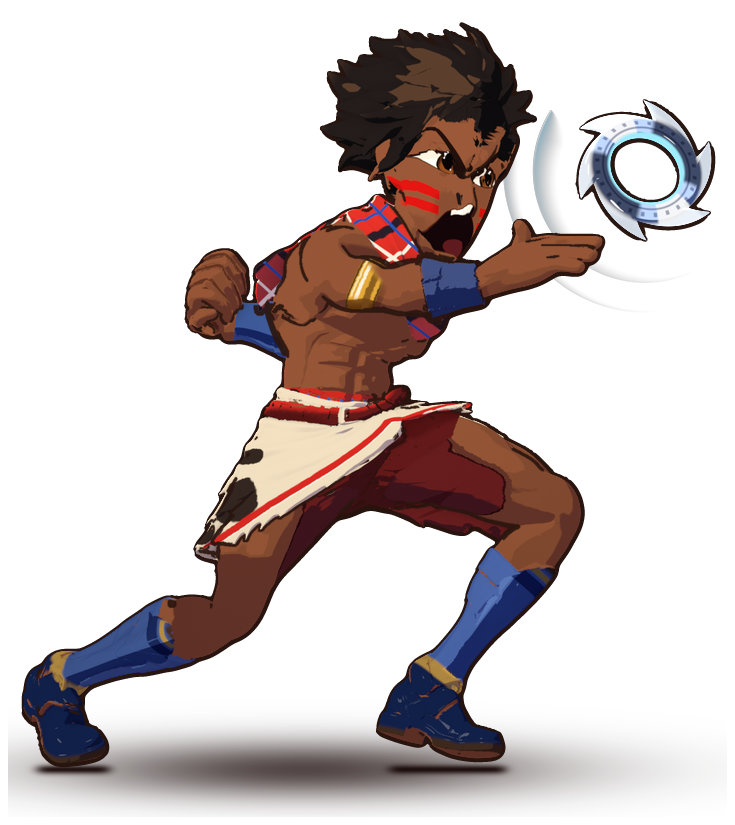
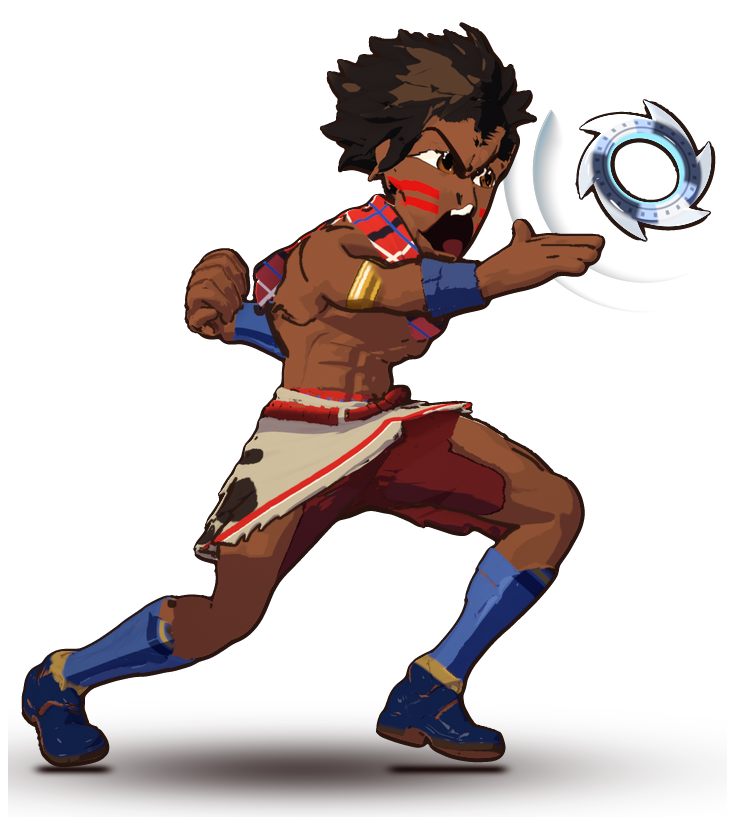
Hero key art k48 (won its A/B against k44 with both blind judges, by toss-ups): the white cowhide apron becomes a warm cream one value step down, with a crisp shadow band under the red belt, so the hips are no longer the brightest shape and the face, eye whites, teeth and chakram lead

Changed region(s): [[0.2993, 0.4545, 0.5986, 0.6667], [0.2694, 0.6061, 0.2993, 0.6364]]

diff --git a/New/tools/art/blender/hero_toon_aaa.py b/New/tools/art/blender/hero_toon_aaa.py
@@ -155,6 +155,13 @@ HAIR_AO_K = 0.3  ## the occlusion kept in the pictures (deep gaps only; was 0.9)
 ## (key art k7, "the lower body melts into the background: one orange-tan value"; "a generic fighter: one signature
 ## colour") the kilt a white Nguni cowhide with bold dark patches (the logo shield's hide) and a beaded hem, a red sash
 ## round his waist, the leather under the kilt dark; the boots: clean blue shin guards over dark glossy leather
+## (key art k48, both judges of k44, judge 1 again of k47: "the white cowhide apron is the highest-value, highest-contrast
+## shape on the figure and pulls the eye to the hips instead of the face: knock the white down to warm cream or ivory, add a
+## shadow under the belt") the hide's white one value step down to a warm cream, and the belt's crisp shadow on it
+COW_CREAM = (0.55, 0.47, 0.32)  ## (linear; lit about sRGB (0.82, 0.75, 0.62); k7-k47 (0.78, 0.68, 0.5), lit near white)
+BELT_SHADOW = tuple(float(v) for v in _os.environ.get("BELT_SHADOW", "0.045,0.068").split(","))  ## (rest height) the belt's shadow on
+## the apron right under its roll (the apron's top edge is at about 0.065 at his front; the band folded over the belt's top,
+## above 0.075, stays lit)
 COW_DARK = (0.03, 0.018, 0.014)  ## (k9: black-brown; k7 (0.085, 0.032, 0.018)) the spots, lit by the fur's bands
 ## (key art k9, "random hard-edged blobs": a few designed spots, (y, z, radius y, radius z) in the rest shape: three on the
 ## front apron, two on the back)
@@ -462,6 +469,10 @@ def build(m, mode="day"):
         if region == "skin":  # a crisp shadow cast by the hem on the skin just below it
             cast = g.math("MULTIPLY", g.math("MULTIPLY", g.smooth(hem_d, HEM_SHADOW, HEM_SHADOW * 0.85), g.math("GREATER_THAN", hem_d, 0.0)), legs)
             L = g.math("SUBTRACT", L, g.math("MULTIPLY", cast, 1.5))
+    if mode == "sunset" and BOLD and not flat and region == "fur":  # (key art k48) the belt's shadow on the hide right under it:
+        # the hide's own shade tone, one crisp cel band along the belt
+        cast_b = g.math("MULTIPLY", g.smooth(height, BELT_SHADOW[0], BELT_SHADOW[0] + 0.001), g.smooth(height, BELT_SHADOW[1], BELT_SHADOW[1] - 0.001))
+        L = g.math("SUBTRACT", L, g.math("MULTIPLY", cast_b, 1.5))
     hair_n = None
     if region == "hair" and mode == "sunset" and BOLD:  # (key art k39) the light of its big locks, not of every strand
         att_hn = g.node("ShaderNodeAttribute")
@@ -606,6 +617,10 @@ def build(m, mode="day"):
             alb = g.mix("MIX", sole, alb, (0.05, 0.025, 0.013) if mode == "sunset" else BOOT_SOLE)  # (key art k7: in the pictures only its edge; it tanned half the shoe)
         if region == "fur":
             alb = g.mix("MULTIPLY", 1.0, albedo, (1.0, 0.97, 0.9))  # warm cream, never grey paper
+            if mode == "sunset" and BOLD and not flat:  # (key art k48) one value step down, a warm cream
+                rgb_c = g.node("ShaderNodeRGB")
+                rgb_c.outputs[0].default_value = (*COW_CREAM, 1.0)
+                alb = rgb_c.outputs[0]
         if region == "belt" and mode == "sunset" and BOLD and (not flat or m.name.startswith("AAA_underwrap")):
             # (the underwrap's waistband is the sash too; under the kilt it is the dark leather)
             low = UI_FLAT["belt"] if flat else alb
